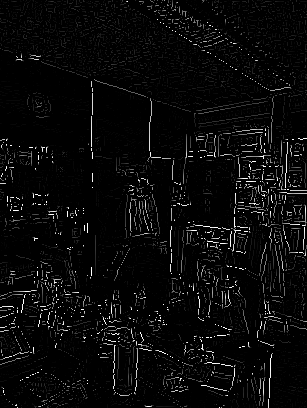
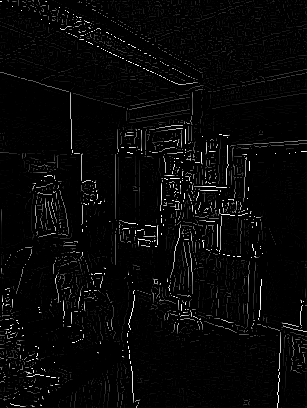
stitching fun

diff --git a/examples/stitching_simple.rs b/examples/stitching_simple.rs
@@ -1,50 +1,72 @@
-use image::{imageops::resize, GenericImageView};
+use image::{
+    imageops::{crop, resize},
+    GenericImage, GenericImageView, GrayImage, RgbImage,
+};
 use openbv::{open_gray, regionops::canny::CannyExt};
 
-const STEP_SIZE: u32 = 100;
+const STEP_SIZE: i32 = 100;
+const SCALE_FAC: u32 = 10;
 
 fn main() {
-    let image_one = open_gray("./images/stitch_two.jpg").unwrap();
-    let image_two = open_gray("./images/stitch_one.jpg").unwrap();
+    let image_one = open_gray("./images/stitch_one.jpg").unwrap();
+    let image_two = open_gray("./images/stitch_two.jpg").unwrap();
 
-    let image_one = resize(&image_one, image_one.width()/10, image_one.height()/10, image::imageops::FilterType::Nearest);
-    let image_two = resize(&image_two, image_two.width()/10, image_two.height()/10, image::imageops::FilterType::Nearest);
+    let image_one_r = resize(
+        &image_one,
+        image_one.width() / SCALE_FAC,
+        image_one.height() / SCALE_FAC,
+        image::imageops::FilterType::Nearest,
+    );
+    let image_two_r = resize(
+        &image_two,
+        image_two.width() / SCALE_FAC,
+        image_two.height() / SCALE_FAC,
+        image::imageops::FilterType::Nearest,
+    );
 
-    let edges_one = image_one.canny();
-    let edges_two = image_two.canny();
+    let edges_one = image_one_r.canny();
+    let edges_two = image_two_r.canny();
 
     edges_one.save("edges_one.png").unwrap();
     edges_two.save("edges_two.png").unwrap();
 
-    // for x in (-(edges_one.width() as i32)..edges_one.width() as i32) .step_by(10){
-    //     for y in (-(edges_one.height() as i32)..edges_one.height() as i32).step_by(10) {
-    //         edges_one.view(x, y, width, height)
-    //     }
-    // }
+    let width = edges_one.width() as i32;
+    let height = edges_one.height() as i32;
+
+    // println!("width: {width}");
+    // println!("height: {height}");
 
     let mut min_diff = std::i32::MAX;
     let mut min_x = 0;
     let mut min_y = 0;
 
-    let mut i = 1;
+    let mut i = 1; // debug
 
-    for x in (0..edges_one.width() as i32 - STEP_SIZE as i32).step_by(STEP_SIZE as usize) {
-        for y in (0..edges_one.height() as i32 - STEP_SIZE as i32).step_by(STEP_SIZE as usize) {
+    for x in (-width + STEP_SIZE..width - STEP_SIZE).step_by(STEP_SIZE as usize) {
+        for y in (-height + STEP_SIZE..height - STEP_SIZE).step_by(STEP_SIZE as usize) {
+            // println!("x: {x}");
+            // println!("y: {y}");
+
             let view_one = edges_one.view(
-                x as u32,
-                y as u32,
-                edges_one.width() - x as u32,
-                edges_one.height() - y as u32,
+                if x <= 0 { 0 } else { x } as u32,
+                if y <= 0 { 0 } else { y } as u32,
+                (width - x.abs()) as u32,
+                (height - y.abs()) as u32,
             );
             let view_two = edges_two.view(
-                0,
-                0,
-                edges_two.width() - x as u32,
-                edges_two.height() - y as u32,
+                if x <= 0 { x.abs() } else { 0 } as u32,
+                if y <= 0 { y.abs() } else { 0 } as u32,
+                (width - x.abs()) as u32,
+                (height - y.abs()) as u32,
             );
             let diff = difference(&view_one, &view_two);
 
-            println!("Diff: {}, {i}/{}", diff, (edges_one.width() as i32 / STEP_SIZE as i32) * (edges_one.height() as i32 / STEP_SIZE as i32));
+            println!(
+                "Diff: {}, {i}/{}",
+                diff,
+                (edges_one.width() as i32 / STEP_SIZE as i32)
+                    * (edges_one.height() as i32 / STEP_SIZE as i32)
+            ); // debug
             i += 1;
 
             if diff < min_diff {
@@ -59,8 +81,20 @@ fn main() {
     println!("Min x: {}", min_x);
     println!("Min y: {}", min_y);
 
-}
+    let x_position = min_x * SCALE_FAC as i32;
+    let y_position = min_y * SCALE_FAC as i32;
 
+    let mut stitch_img = GrayImage::new(
+        image_one.width() + x_position.abs() as u32,
+        image_one.height() + y_position.abs() as u32,
+    );
+
+    stitch_img.copy_from(&image_one, 0, 0).unwrap();
+    stitch_img
+        .copy_from(&image_two, x_position as u32, 0)
+        .unwrap();
+    stitch_img.save("export/stitchtest_1.png").unwrap();
+}
 
 fn difference(
     image_one: &image::SubImage<&image::GrayImage>,
@@ -70,9 +104,12 @@ fn difference(
 
     let mut acc = 0;
 
-    image_one.to_image().enumerate_pixels().for_each(|(x, y, pixel)| {
-        let pixel_two = image_two.get_pixel(x, y);
-        acc += pixel.0[0] as i32 - pixel_two.0[0] as i32
-    });
+    image_one
+        .to_image()
+        .enumerate_pixels()
+        .for_each(|(x, y, pixel)| {
+            let pixel_two = image_two.get_pixel(x, y);
+            acc += pixel.0[0] as i32 - pixel_two.0[0] as i32
+        });
     acc.abs()
 }
